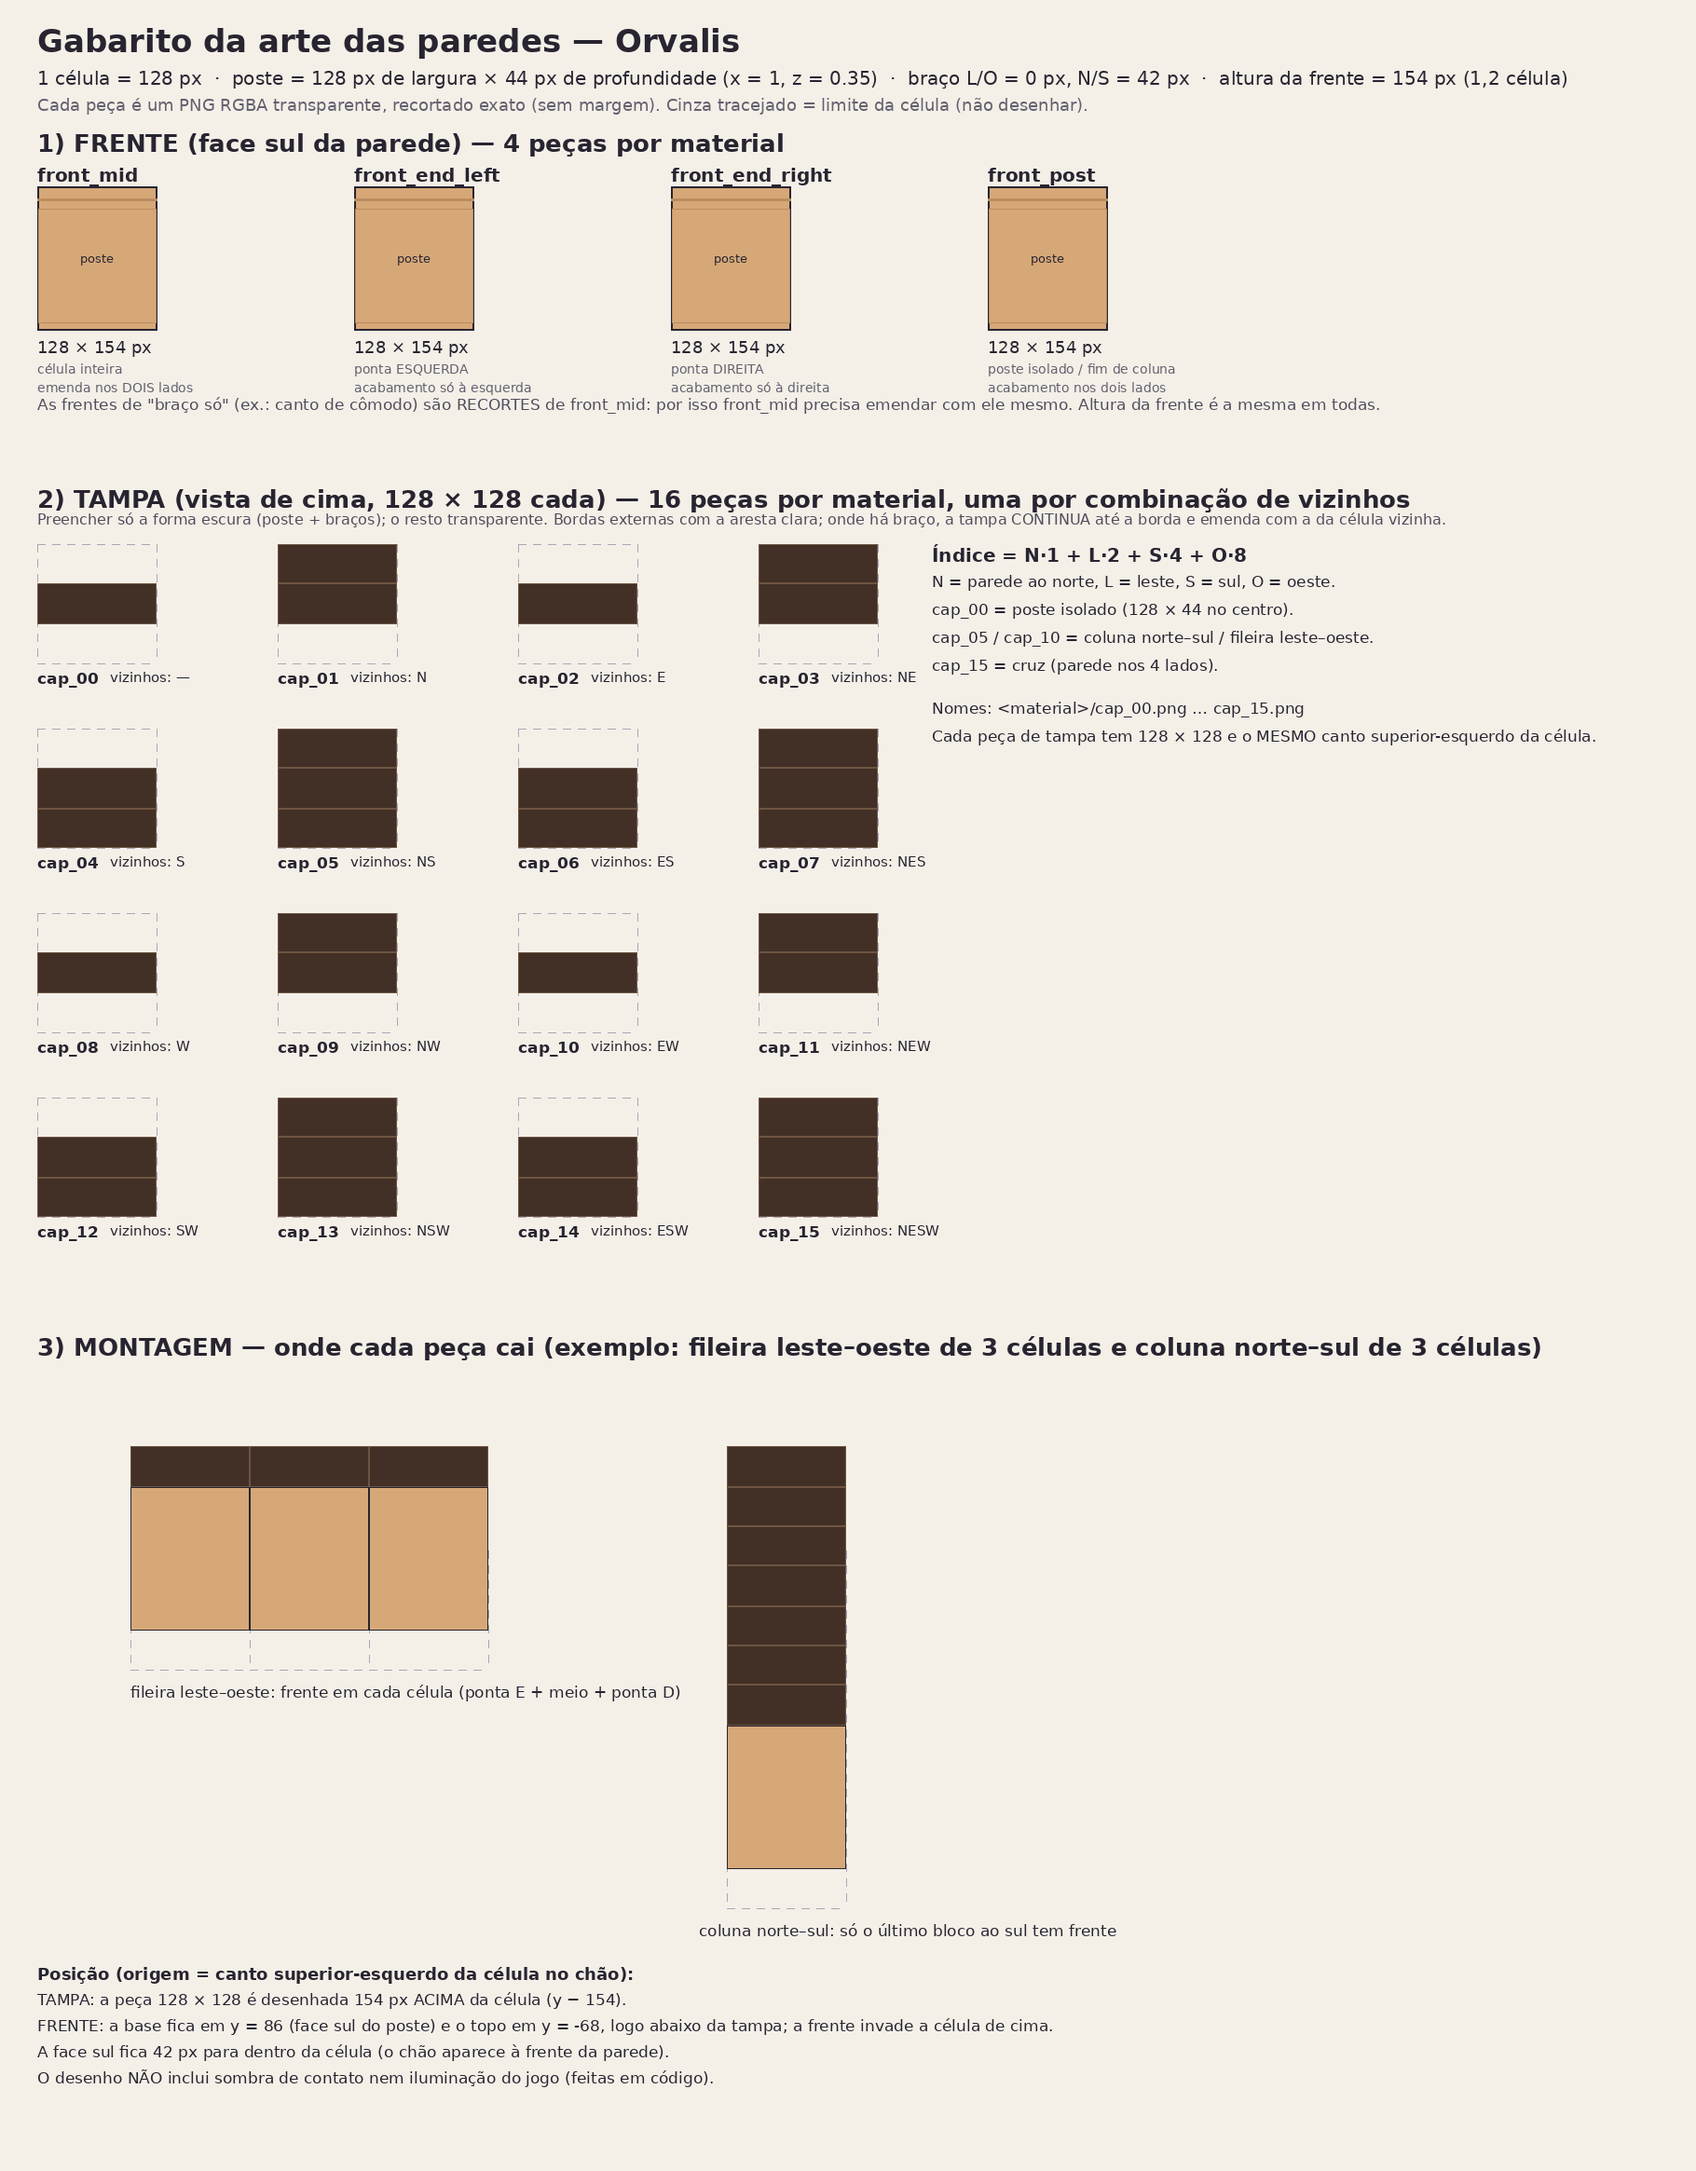
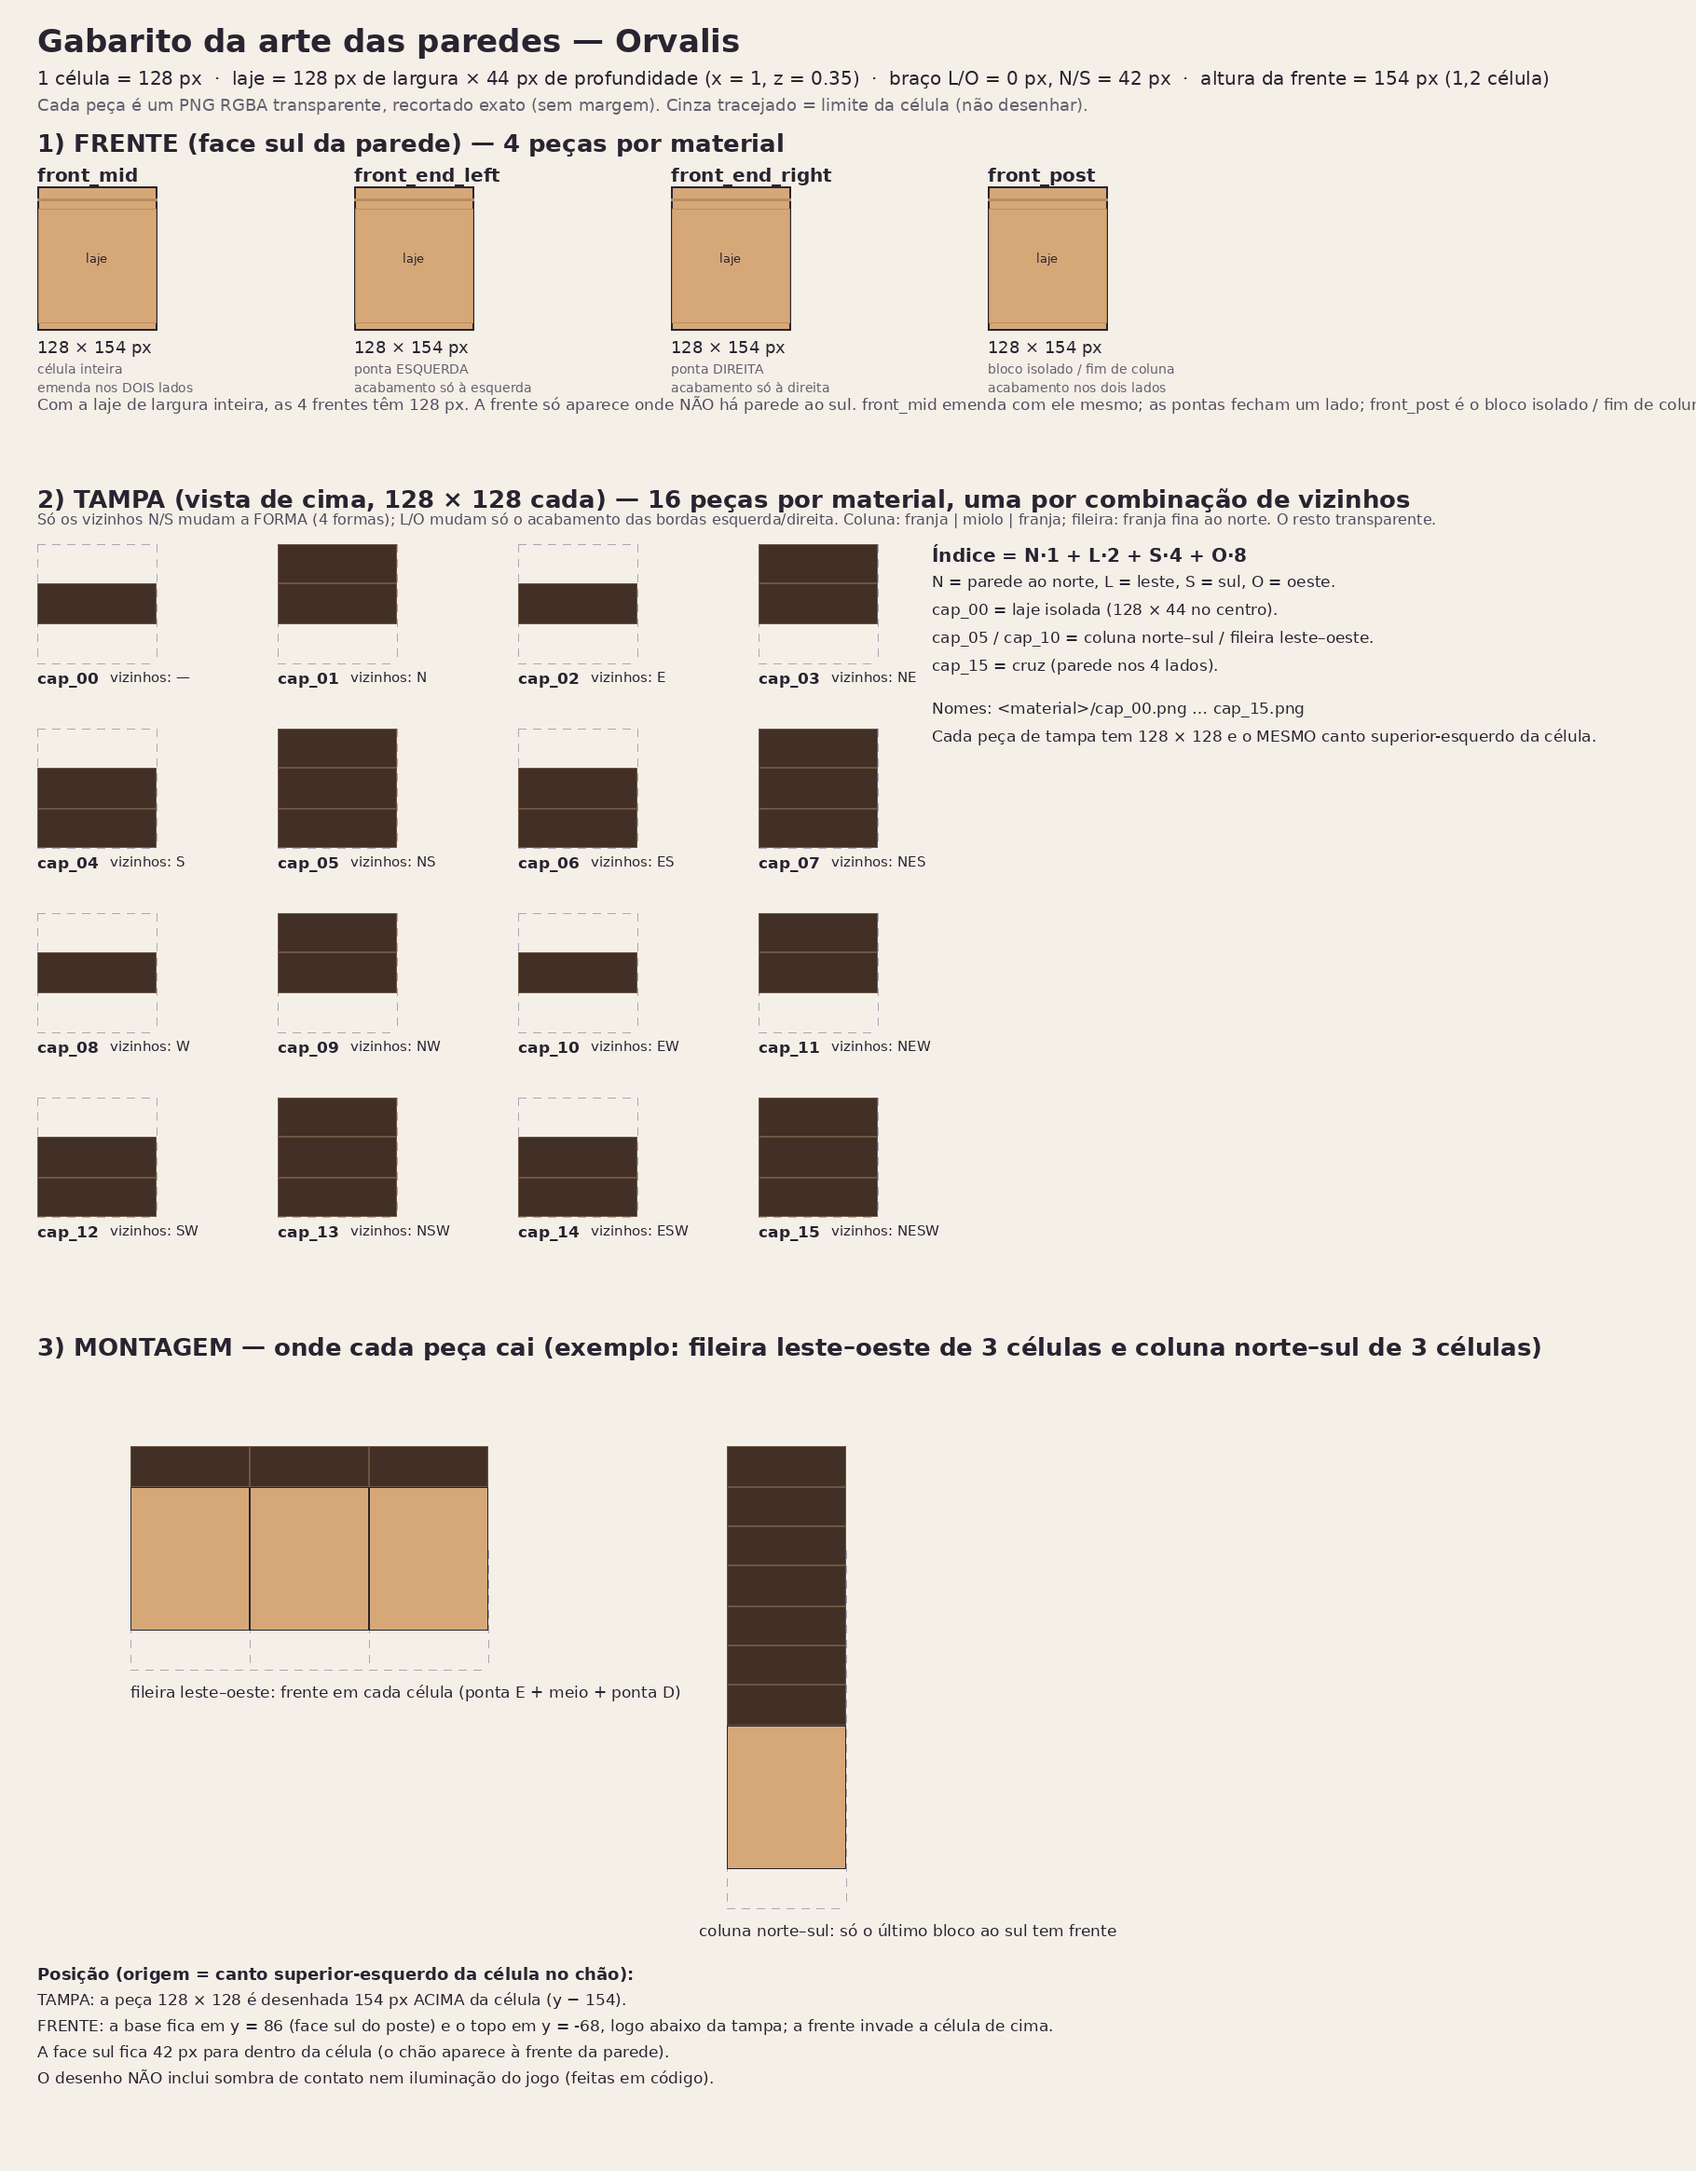
Orvalis v0.93.21: docs, versao e gabarito final (laje x = 1,0)
Claude-Session: https://claude.ai/code/session_01KGdgomm438trDHTLPLqJmv

diff --git a/scripts/make-wall-guide.py b/scripts/make-wall-guide.py
@@ -63,17 +63,17 @@ def footprint(n, e, s, w):
 
 
 text(40, 24, 'Gabarito da arte das paredes — Orvalis', 34, True)
-text(40, 72, f'1 célula = {CELL} px  ·  poste = {TX} px de largura × {TZ} px de profundidade (x = {args.tx:g}, z = {args.tz:g})  ·  braço L/O = {ARM} px, N/S = {ARMZ} px  ·  altura da frente = {H} px (1,2 célula)', 20)
+text(40, 72, f'1 célula = {CELL} px  ·  laje = {TX} px de largura × {TZ} px de profundidade (x = {args.tx:g}, z = {args.tz:g})  ·  braço L/O = {ARM} px, N/S = {ARMZ} px  ·  altura da frente = {H} px (1,2 célula)', 20)
 text(40, 102, 'Cada peça é um PNG RGBA transparente, recortado exato (sem margem). Cinza tracejado = limite da célula (não desenhar).', 18, fill=(100, 96, 110))
 
 # ---------------- 1) FRENTE ----------------
 y0 = 170
 text(40, y0 - 32, '1) FRENTE (face sul da parede) — 4 peças por material', 26, True)
 pieces = [
-    ('front_mid', CELL, 0, ['célula inteira', 'emenda nos DOIS lados'], [(0, ARM, 'braço O'), (ARM, TX, 'poste'), (ARM + TX, ARM, 'braço L')]),
-    ('front_end_left', CELL - C0, C0, ['ponta ESQUERDA', 'acabamento só à esquerda'], [(0, TX, 'poste'), (TX, ARM, 'braço L')]),
-    ('front_end_right', C1, 0, ['ponta DIREITA', 'acabamento só à direita'], [(0, ARM, 'braço O'), (ARM, TX, 'poste')]),
-    ('front_post', TX, 0, ['poste isolado / fim de coluna', 'acabamento nos dois lados'], [(0, TX, 'poste')]),
+    ('front_mid', CELL, 0, ['célula inteira', 'emenda nos DOIS lados'], [(0, ARM, 'braço O'), (ARM, TX, 'laje'), (ARM + TX, ARM, 'braço L')]),
+    ('front_end_left', CELL - C0, C0, ['ponta ESQUERDA', 'acabamento só à esquerda'], [(0, TX, 'laje'), (TX, ARM, 'braço L')]),
+    ('front_end_right', C1, 0, ['ponta DIREITA', 'acabamento só à direita'], [(0, ARM, 'braço O'), (ARM, TX, 'laje')]),
+    ('front_post', TX, 0, ['bloco isolado / fim de coluna', 'acabamento nos dois lados'], [(0, TX, 'laje')]),
 ]
 x = 40
 for name, w, _, desc, parts in pieces:
@@ -89,13 +89,13 @@ for name, w, _, desc, parts in pieces:
     for i, line in enumerate(desc):
         text(x, top + H + 34 + i * 20, line, 14, fill=(100, 96, 110))
     x += max(w, 190) + 150
-text(40, y0 + 30 + H + 70, 'As frentes de "braço só" (ex.: canto de cômodo) são RECORTES de front_mid: por isso front_mid precisa emendar com ele mesmo. '
-     'Altura da frente é a mesma em todas.', 17, fill=(80, 76, 92))
+text(40, y0 + 30 + H + 70, 'Com a laje de largura inteira, as 4 frentes têm 128 px. A frente só aparece onde NÃO há parede ao sul. front_mid emenda com ele mesmo; '
+     'as pontas fecham um lado; front_post é o bloco isolado / fim de coluna. Frentes 100% opacas.', 17, fill=(80, 76, 92))
 
 # ---------------- 2) TAMPA ----------------
 y1 = 560
 text(40, y1 - 40, '2) TAMPA (vista de cima, 128 × 128 cada) — 16 peças por material, uma por combinação de vizinhos', 26, True)
-text(40, y1 - 12, 'Preencher só a forma escura (poste + braços); o resto transparente. Bordas externas com a aresta clara; onde há braço, a tampa CONTINUA até a borda e emenda com a da célula vizinha.', 16, fill=(80, 76, 92))
+text(40, y1 - 12, 'Só os vizinhos N/S mudam a FORMA (4 formas); L/O mudam só o acabamento das bordas esquerda/direita. Coluna: franja | miolo | franja; fileira: franja fina ao norte. O resto transparente.', 16, fill=(80, 76, 92))
 names = {0: 'solta'}
 for m in range(16):
     col, row = m % 4, m // 4
@@ -110,7 +110,7 @@ for m in range(16):
     text(tx + 78, ty + CELL + 6, f'vizinhos: {flags}', 15)
 text(1000, y1 + 24, 'Índice = N·1 + L·2 + S·4 + O·8', 20, True)
 text(1000, y1 + 54, 'N = parede ao norte, L = leste, S = sul, O = oeste.', 17)
-text(1000, y1 + 84, f'cap_00 = poste isolado ({TX} × {TZ} no centro).', 17)
+text(1000, y1 + 84, f'cap_00 = laje isolada ({TX} × {TZ} no centro).', 17)
 text(1000, y1 + 114, 'cap_05 / cap_10 = coluna norte–sul / fileira leste–oeste.', 17)
 text(1000, y1 + 144, 'cap_15 = cruz (parede nos 4 lados).', 17)
 text(1000, y1 + 190, 'Nomes: <material>/cap_00.png … cap_15.png', 17)

diff --git a/docs/CHANGELOG.md b/docs/CHANGELOG.md
@@ -1,6 +1,11 @@
 # Changelog
 
 ## Orvalis v0.93.21 — Decisão final: coluna da largura da célula (x = 1,0 · z = 0,35) (13/11/2026)
+- **Decisão do dono do produto:** `DEFAULT_WALL_THICKNESS` = `{ x: 1, z: 0.35 }`. Com `x = 1` só os vizinhos norte/sul mudam a forma da tampa (**4 formas** para as 16 máscaras); leste/oeste só mudam o acabamento das bordas. Testes novos (padrão, 4 formas, coluna contínua, frentes).
+- **Contrato e gabarito regerados** (`CONTRATO.tpl.md` reescrito): laje 128 × 44 px, braços N/S 42, frente 128 × 154 (4 peças opacas), 16 tampas 128 × 128 sobre 4 formas, franja da coluna 27 | miolo 74 | 27, franja da fileira 9 px ao norte. Das peças de Tábuas valem `front_mid` e `cap_10`; as outras 18 serão refeitas (as antigas ficam como referência de estilo).
+- Sem mudança de protocolo, save ou servidor.
+
+## Orvalis v0.93.21 — Decisão final: coluna da largura da célula (x = 1,0 · z = 0,35) (13/11/2026)
 - **Decisão do dono do produto:** `DEFAULT_WALL_THICKNESS` = `{ x: 1, z: 0.35 }`. Com `x = 1` só os vizinhos norte/sul mudam a forma da tampa (**4 formas** para as 16 máscaras); leste/oeste só mudam o acabamento das bordas. Testes: padrão, 4 formas, coluna contínua preenche a célula, frentes (isolado, fim de coluna, meio e canto).
 - **Contrato e gabarito regerados** (`CONTRATO.tpl.md` reescrito): laje de 128 × 44 px, braços N/S de 42, frente 128 × 154 (4 peças, opacas), 16 tampas 128 × 128 sobre 4 formas, franja da coluna 27 px | miolo 74 | franja 27, franja da fileira 9 px ao norte, tabela de máscaras por forma, conferência. **Das peças de Tábuas já entregues valem `front_mid` e `cap_10`; as outras 18 serão refeitas** (as antigas ficam como referência de estilo).
 - Sem mudança de protocolo, save ou servidor.
